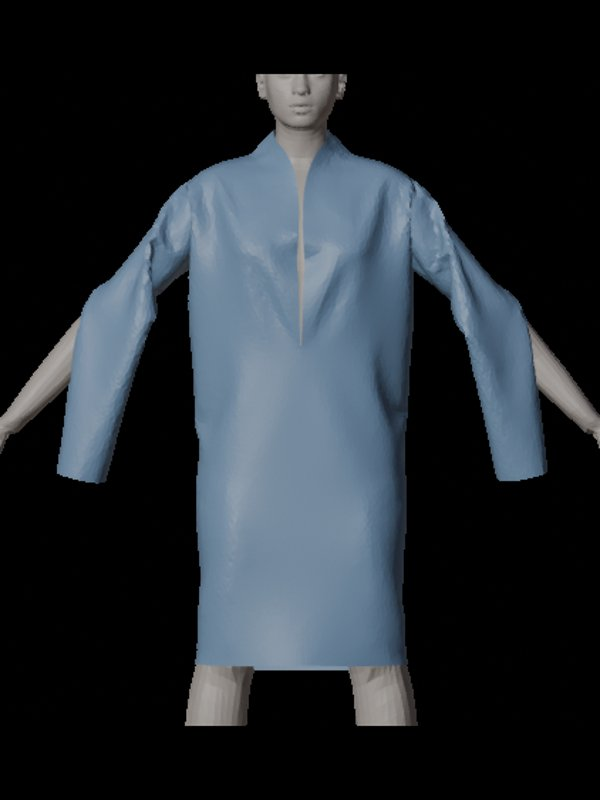
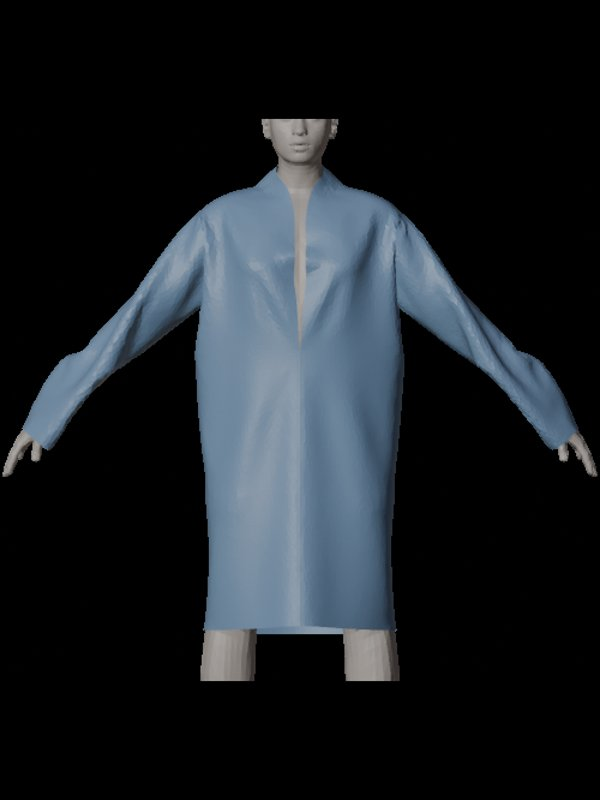
fix: the jacket and coat catalogue pictures show size L, whose long sleeve follows the arm (in XS-M it still hangs off the forearm)

Changed region(s): [[0.0, 0.0938, 1.0, 0.9062]]

diff --git a/scripts/garments/export_demo_drapes.py b/scripts/garments/export_demo_drapes.py
@@ -14,7 +14,7 @@
 #   research/patterns/.envs/mac/bin/python scripts/garments/export_demo_drapes.py            # S и L (Newton, 18.10)
 #   … export_demo_drapes.py --run allsizes   # все размеры: GLB из simtest_report.py --no-render
 #        по runs/allsizes/newton (renders/), болванки runs/allsizes/bodies
-#   … export_demo_drapes.py --run arms --jobs trousers:arms_trousers,jacket:arms_jacket,coat:arms_coat
+#   … export_demo_drapes.py --run arms --jobs trousers:arms_trousers,jacket:arms_jacket:L,coat:arms_coat:L
 #        + товары конвейера продавца (scripts/garments/patterns_job.py): GLB из runs/<job>/report/renders,
 #        болванки runs/<job>/bodies/product_<размер>, фигура размера — из runs/<job>/result.json
 
@@ -73,19 +73,20 @@ def z_offsets():
 
 
 def job_items(spec):
-    """Товары конвейера продавца: "id:run,…" → {id: {"run", "sizes": [(size, figure, dz)]}}. Фигура размера —
+    """Товары конвейера продавца: "id:run[:размер картинки],…" → {id: {"run", "image", "sizes": [(size, figure, dz)]}}.
+    Размер картинки — S, если не указан (у жакета и пальто — L: в XS–M длинный рукав пока висит мимо руки). Фигура размера —
     из result.json; морфы — тем же подбором, что строил болванку (mpfb_body.MPFB.solve), сдвиг — от неё."""
     mp = MPFB()
     out = {}
     for part in filter(None, spec.split(",")):
-        item, run = part.split(":")
+        item, run, *image = part.split(":")
         run = PATTERNS / "runs" / run
         sizes = []
         for s in json.load(open(run / "result.json"))["sizes"]:
             b = s["body"]
             u, _ = mp.solve(b["heightCm"], b["chest"], b["waist"], b["hips"])
             sizes.append((s["size"], b, z_offset(mp, u, run / "bodies" / f"product_{s['size']}.obj")))
-        out[item] = {"run": run, "sizes": sizes}
+        out[item] = {"run": run, "sizes": sizes, "image": image[0] if image else "S"}
     return out
 
 
@@ -140,9 +141,9 @@ def uint16_indices(glb):
             + struct.pack("<II", len(out), 0x004E4942) + bytes(out))
 
 
-def product_image(case, path, images=None):
+def product_image(case, path, images=None, size="S"):
     """Картинка товара: рендер Newton спереди (наша болванка), кадр по ткани."""
-    img = Image.open((images or IMAGES) / f"{case}_S_front.png").convert("RGB")
+    img = Image.open((images or IMAGES) / f"{case}_{size}_front.png").convert("RGB")
     a = np.asarray(img).astype(int)
     cloth = (a[..., 2] - a[..., 0] > 25)                    # голубая ткань рендера
     ys, xs = np.nonzero(cloth)
@@ -204,7 +205,7 @@ def main():
             models.append({"size": size, "file": f"/models/demo-garments/{item}_{size}.glb", "mb": round(mb, 3),
                            "triangles": int(len(mesh.faces)), "zOffsetM": round(dz, 5), "body": figure})
             print(f"{item}_{size}: {mb:.2f} MB, {len(mesh.faces)} tris, dz {dz * 100:.2f} cm")
-        img_mb = product_image("size", OUT / f"{item}.jpg", images=renders)
+        img_mb = product_image("size", OUT / f"{item}.jpg", images=renders, size=job["image"])
         manifest["items"][item] = {"case": f"{job['run'].name}/size", "image": f"/models/demo-garments/{item}.jpg",
                                    "imageMb": round(img_mb, 3), "models": models}
     (OUT / "manifest.json").write_text(json.dumps(manifest, indent=1, ensure_ascii=False))
